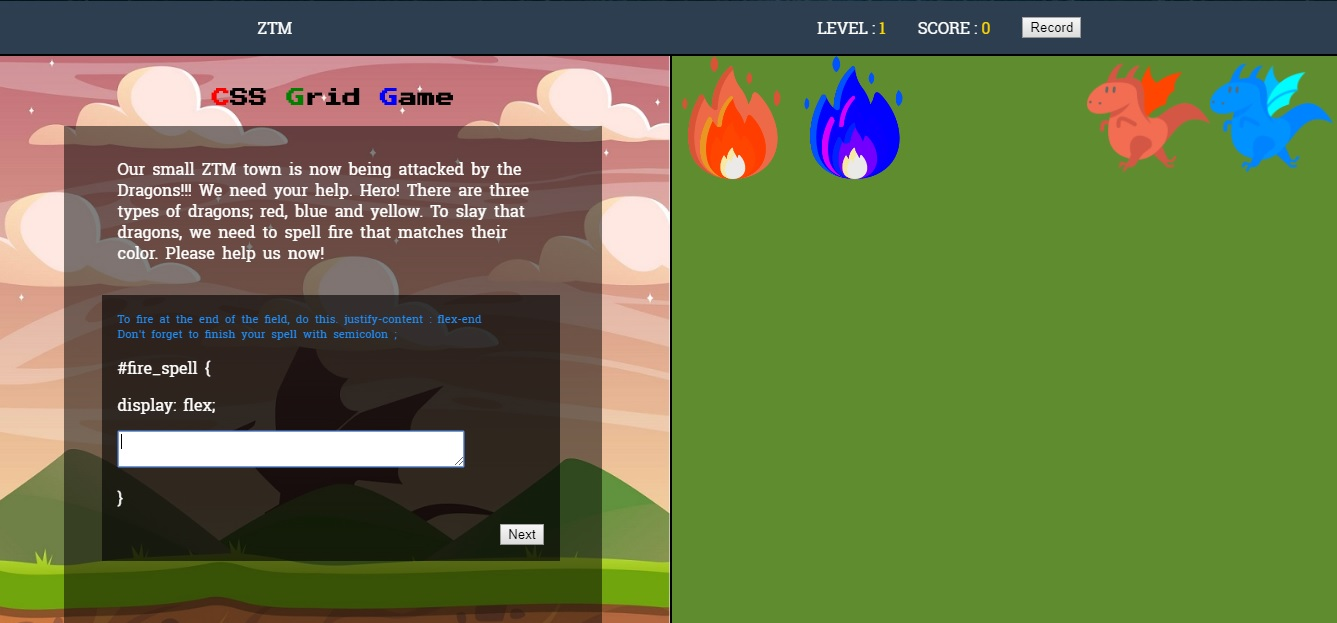
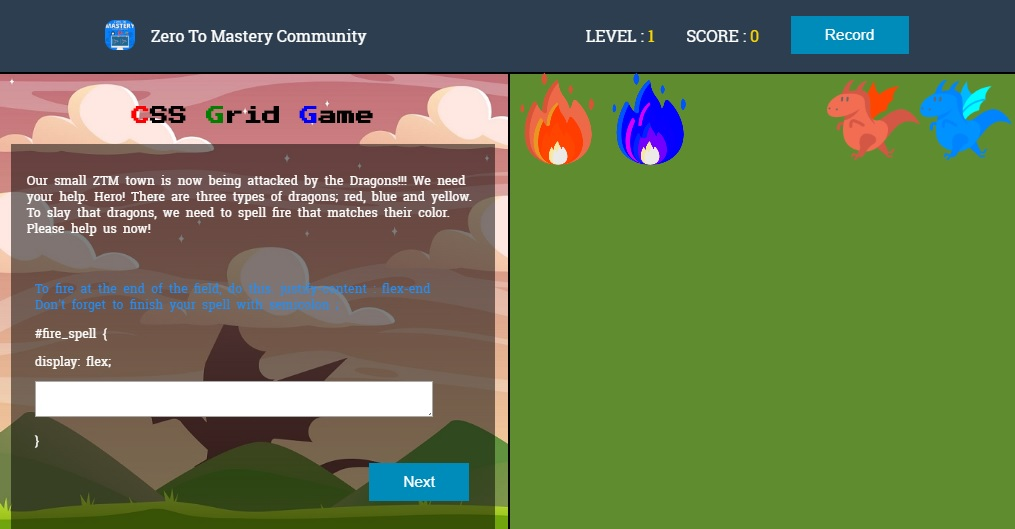
update header, button style, form style

diff --git a/src/Components/App.css b/src/Components/App.css
@@ -21,6 +21,7 @@
 	background-color: rgb(44,62,80);
 	padding: 1rem 0;
 	display: flex;
+	align-items: center;
 	color: white;
 	justify-content: space-around;
 	min-width: 600px;
@@ -28,7 +29,30 @@
 
 	.header_section_right{
 		display: inline-flex;
+		align-items: center;
 	}
+
+	.record_btn {
+	    background-color: #008CBA; 
+	    color: white; 
+	    border: 2px solid transparent;
+	    padding: 8px 32px;
+	    text-align: center;
+	    text-decoration: none;
+	    display: inline-block;
+	    font-size: 1.5vw;
+	    margin: 2px 2px;
+	    -webkit-transition-duration: 0.4s; /* Safari */
+	    transition-duration: 0.4s;
+	    cursor: pointer;
+	}
+
+	.record_btn:hover {
+	    background-color: transparent;
+	    border: 2px solid #008CBA;
+	    color: white;
+	}
+
 
 .footer_section{
 	background-color: rgb(44,62,80);
@@ -91,14 +115,14 @@
 
 		.control_card{
 			background: rgba(0,0,0,0.5);
-			width: 80%;
-			height: 80vh;
+			width: 95%;
+			height: 85vh;
 			margin:0 auto;
 		}
 
 
 			.control_input{
-				width:80%;
+				width:90%;
 			}
 
 			.control_submit{
@@ -121,7 +145,8 @@
 					}
 
 					.control_mission {
-					width: 80%;
+					font-size: 1.2vw;
+					width: 95%;
 					padding: 1rem;
 					margin: 0 auto;
 					text-align: left;
@@ -129,8 +154,8 @@
 					}
 
 					.control_form {
-					background: rgba(0,0,0,0.6);
-					width: 80%;
+					font-size: 1.2vw;
+					width: 90%;
 					padding: 1rem;
 					margin: 0 auto;
 					text-align: left;
@@ -138,7 +163,7 @@
 					}
 
 					.hint{
-						margin: 0;
-						font-size: 0.7rem;
-					    color: dodgerblue;
+					margin: 0;
+					
+				    color: dodgerblue;
 					}

diff --git a/src/Components/Header.js b/src/Components/Header.js
@@ -1,17 +1,20 @@
 import React from 'react';
+import ZTM_Logo from './img/ZTM.jpg'
 
 const Header = ({level, score}) => {
 	return (
 		<section className = "header_section">
-			<div style={{margin: 0}}>
-			ZTM
+
+			<div style={{margin: 0, display:"flex", alignItems:"center"}}>
+			<img style = {{borderRadius:10, marginRight:"1rem"}} src={ZTM_Logo} alt="Zero To Mastery Community" height={30} />
+			Zero To Mastery Community
 			</div>
 			<div className = "header_section_right">
 				<p style={{margin: 0}}>
 				<span>LEVEL : <span style={{color:"gold"}}>{level}</span></span>
 				<span style={{marginLeft : "2rem"}}>SCORE : <span style={{color:"gold"}}>{score}</span></span>
 				</p>
-				<button style={{marginLeft:"2rem"}}>Record</button>
+				<button className = "record_btn" style={{marginLeft:"2rem"}}>Record</button>
 
 			</div>
 

diff --git a/src/Components/Subcomponents/Level1/Control1.js b/src/Components/Subcomponents/Level1/Control1.js
@@ -8,7 +8,7 @@ const Control1 = ({spell_input, spell_submit, level}) => {
 	const solutionNum = "solution" + levelValue;
 
 	return (
-		<section style={{width:"99%"}}>
+		<section>
 
 			<div className = "control_question">
 				<div className = "control_mission">
@@ -23,12 +23,12 @@ const Control1 = ({spell_input, spell_submit, level}) => {
 							<textarea className = "control_input" type = "input" onChange={spell_input} autoFocus={true} required={true}/>
 							<p>&#125;</p>
 							<div className = "control_submit">
-								<button onClick={()=>spell_submit(solutionNum)}>Next</button>
+								<button className="record_btn" onClick={()=>spell_submit(solutionNum)}>Next</button>
 							</div>
 						</section>
 				</div>
-
 			</div>
+			
 		</section>
 		);
 }

diff --git a/src/Components/Subcomponents/Level3/Control3.js b/src/Components/Subcomponents/Level3/Control3.js
@@ -8,7 +8,7 @@ const Control3 = ({spell_input, spell_submit, level}) => {
 	const solutionNum = "solution" + levelValue;
 
 	return (
-		<section style={{width:"99%"}}>
+		<section>
 
 			<div className = "control_question">
 				<div className = "control_mission">
@@ -31,7 +31,7 @@ const Control3 = ({spell_input, spell_submit, level}) => {
 							<textarea column={3} className = "control_input" type = "input" onChange={spell_input} autoFocus={true} required={true}/>
 							<p>&#125;</p>
 							<div className = "control_submit">
-							<button onClick={()=>spell_submit(solutionNum)}>Next</button>
+							<button className="record_btn" onClick={()=>spell_submit(solutionNum)}>Next</button>
 							</div>
 						</section>
 				</div>

diff --git a/src/Components/Subcomponents/Level2/Control2.js b/src/Components/Subcomponents/Level2/Control2.js
@@ -8,7 +8,7 @@ const Control2 = ({spell_input, spell_submit, level}) => {
 	const solutionNum = "solution" + levelValue;
 
 	return (
-		<section style={{width:"99%"}}>
+		<section>
 
 			<div className = "control_question">
 				<div className = "control_mission">
@@ -30,7 +30,7 @@ const Control2 = ({spell_input, spell_submit, level}) => {
 							<textarea className = "control_input" type = "input" onChange={spell_input} autoFocus={true} required={true}/>
 							<p>&#125;</p>
 							<div className = "control_submit">
-							<button onClick={()=>spell_submit(solutionNum)}>Next</button>
+							<button className="record_btn" onClick={()=>spell_submit(solutionNum)}>Next</button>
 							</div>
 						</section>
 				</div>

diff --git a/README.md b/README.md
@@ -3,6 +3,8 @@
 
 ![](sample.jpg)
 
+* [Play Here!](https://april9288.github.io/CssGridGame/) - Temporarily deployed address.
+
 It's bascially a froggy-flexbox style game app built with React.js. Currently only 3 stages have been developed. After stage #4 is totally up to you. Be creative! If you want to enjoy this app in your local computer, then download the source and have your computer setup with Node.js. Then you are good to go. If you feel like you want to contribute, then please read [CONTRIBUTING.md](https://github.com/zero-to-mastery/CSS_Grid_LearnGame/blob/master/CONTRIBUTING.md) before you make a pull request. 
 
 ## Getting Started
